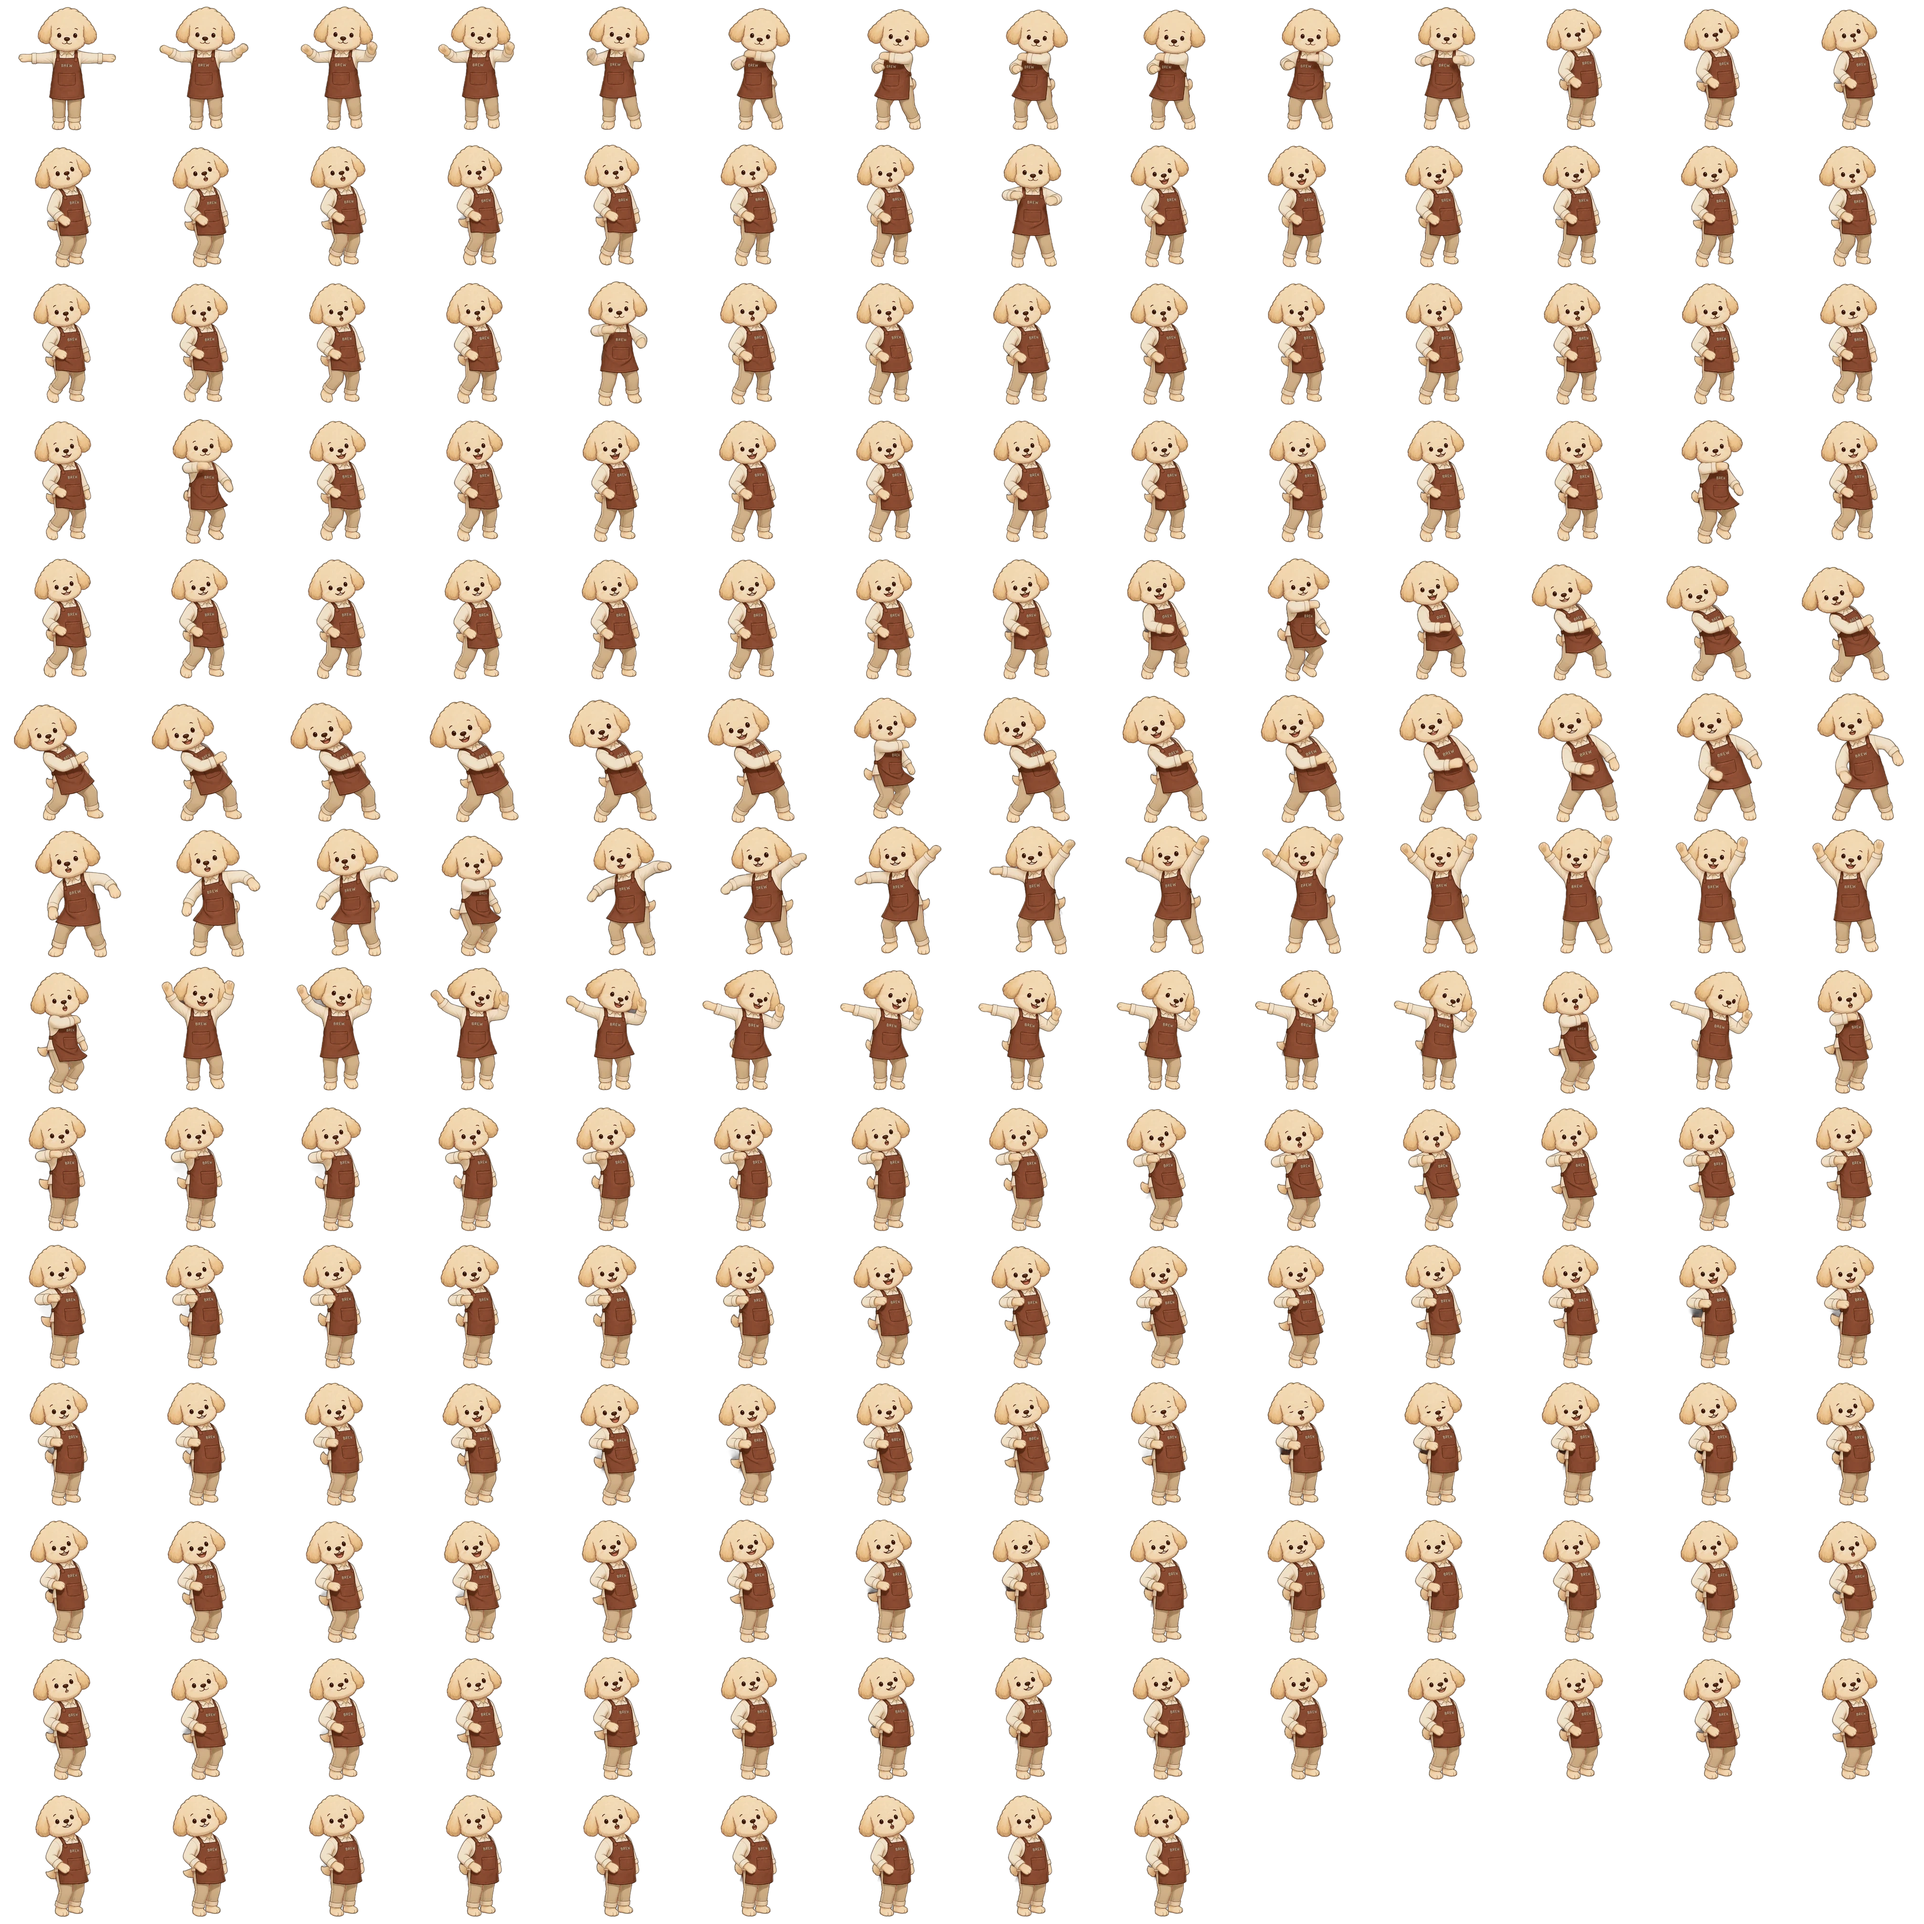
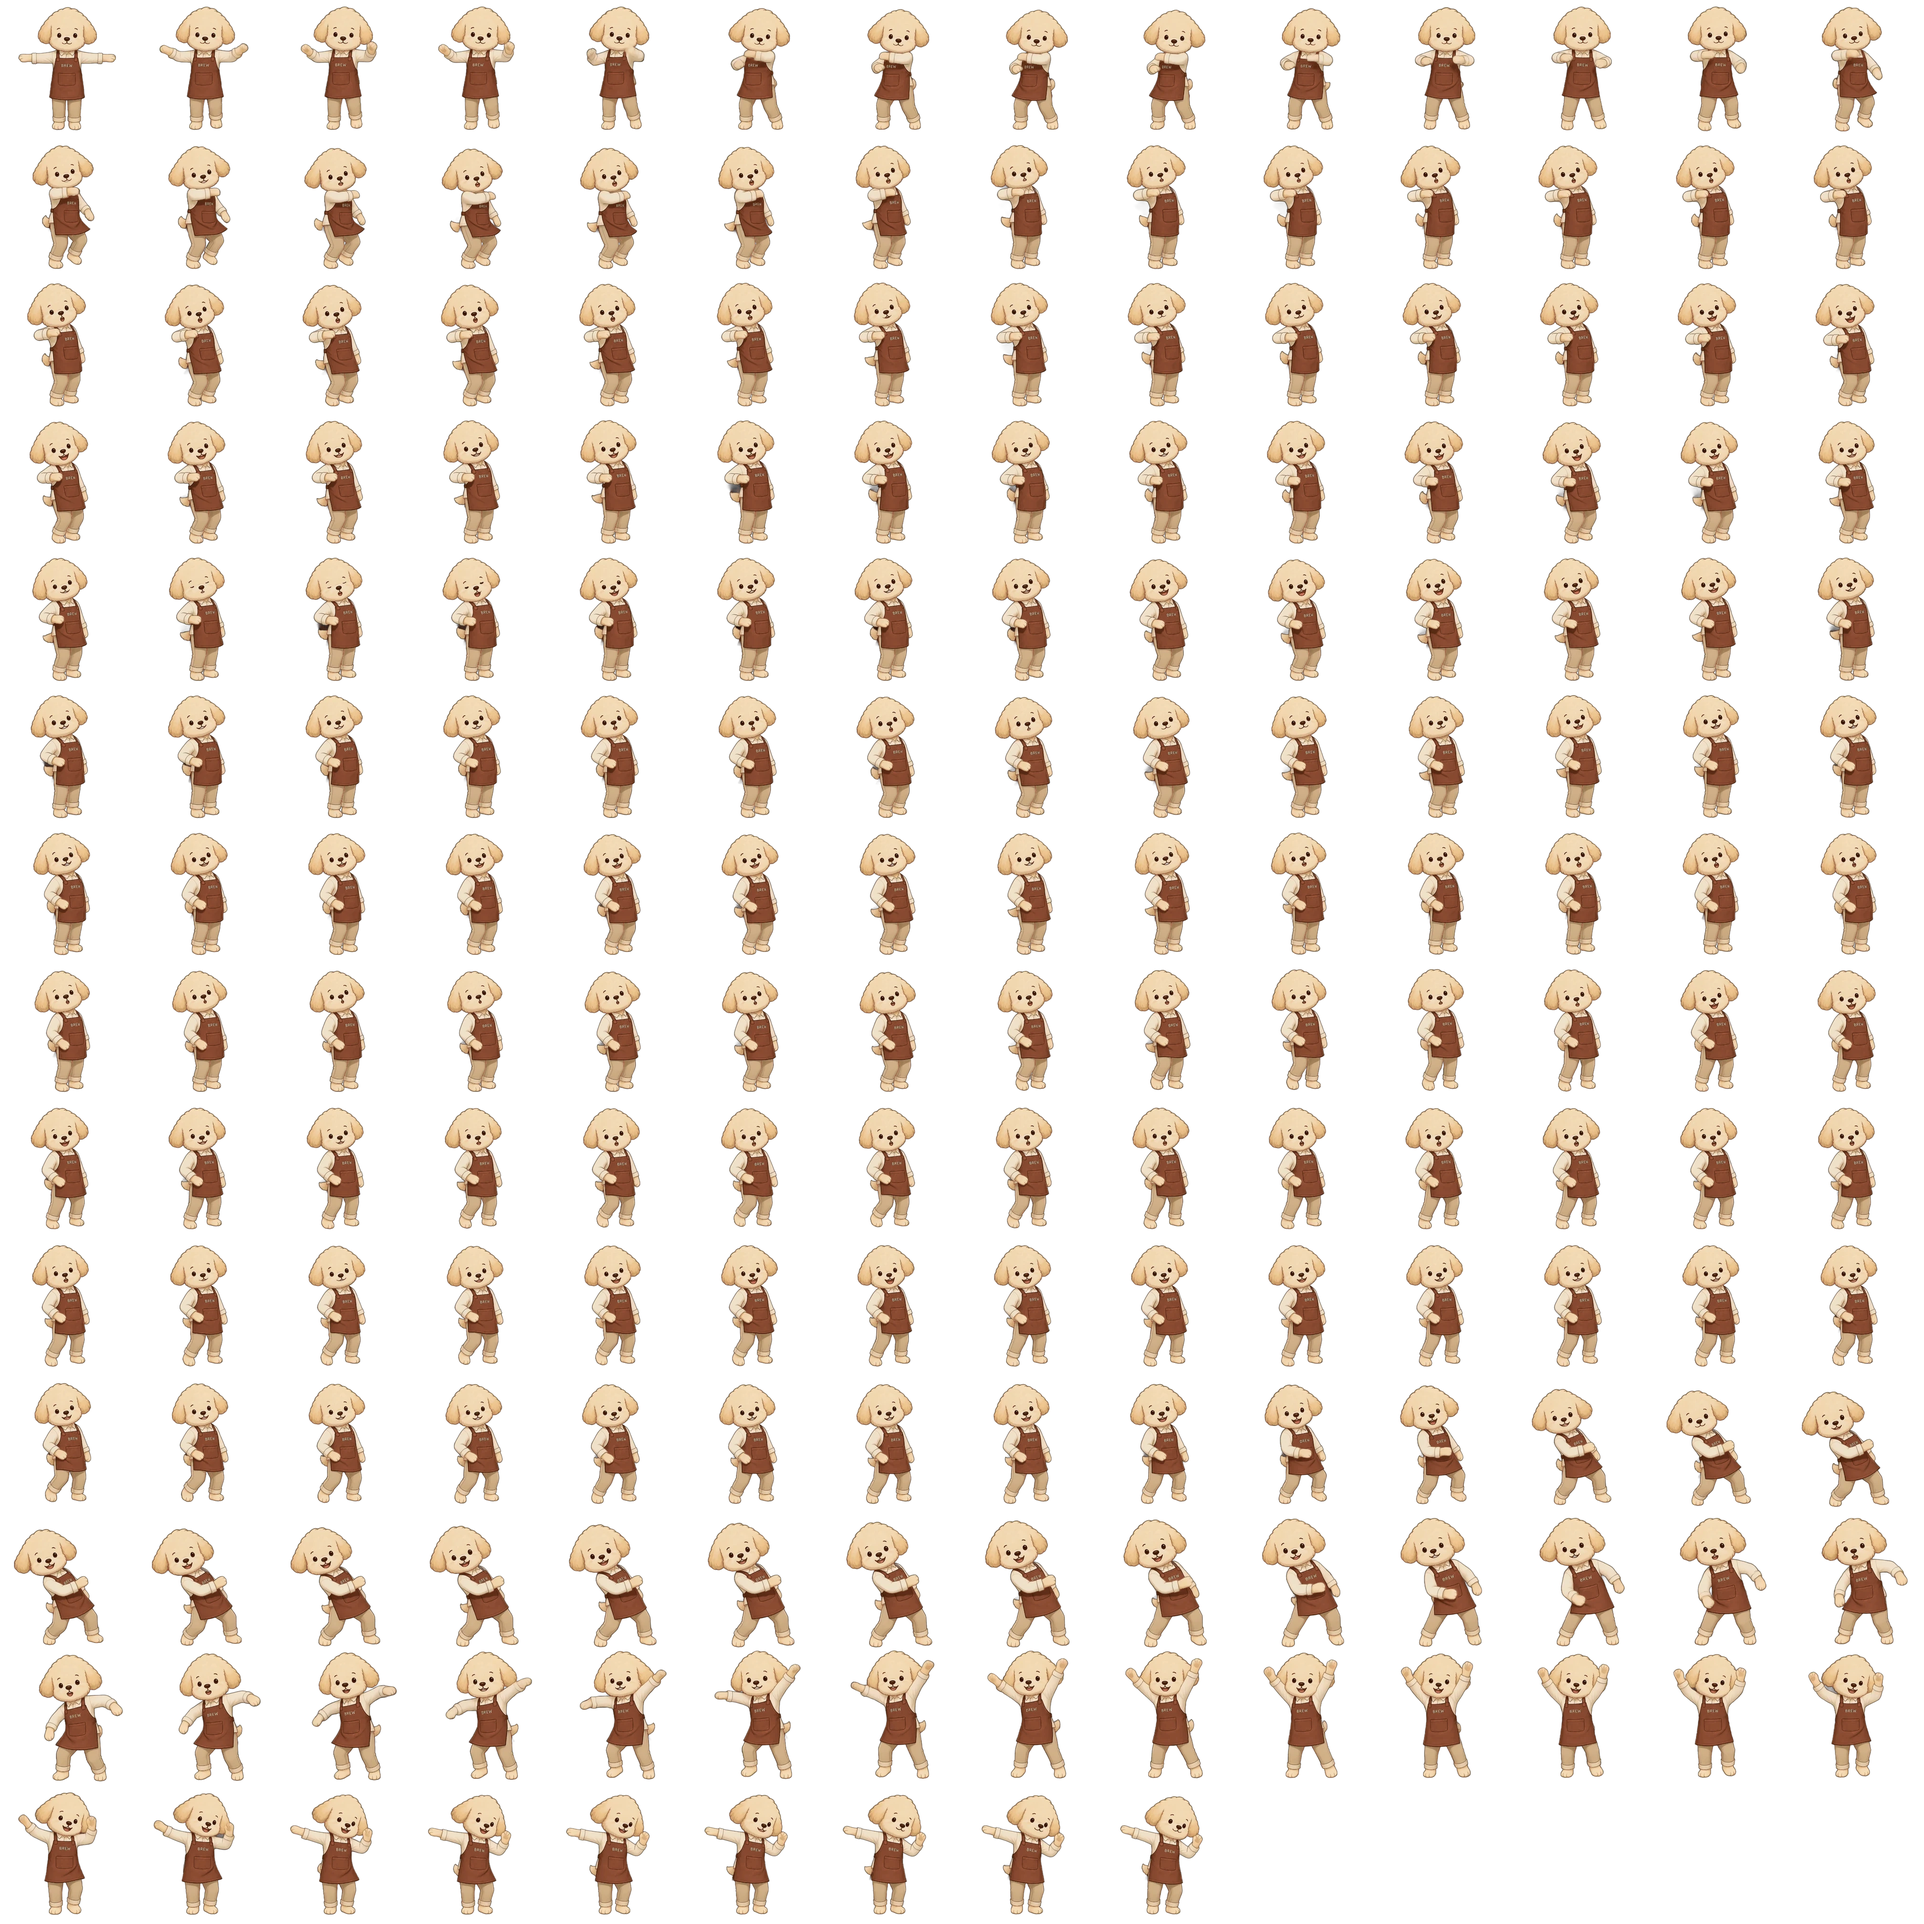
fix(마스코트): 100장 넘는 세트의 프레임 순서가 뒤섞이던 버그 — 숫자 정렬로 교정
프레임 파일이 f00,f01… 2자리라 100장을 넘으면 f100이 되는데, 문자열 정렬은
f10 바로 뒤에 f100을 끼워 넣는다(f10,f100,…,f109,f11,f110…). 그래서 어제
프레임을 2배로 늘리며 100장을 넘긴 heart(115)·bad(191)·redred(192)의
스프라이트 시트가 뒤죽박죽 순서로 구워져 재생이 튀었다.

pack·index·loop의 프레임 나열을 번호 기준(_frames_in_order)으로 바꾸고 시트
63장을 다시 구웠다. 프레임 파일 자체는 순서가 맞아 색 변형 재굽기는 불필요.
검증: 모든 시트의 i번째 칸 == f{i}.webp (불일치 0), 프레임간 변화 최대치
redred 0.132→0.065 / bad 0.164→0.052. 테스트 94개 통과.

diff --git a/scripts/bake_mascot.py b/scripts/bake_mascot.py
@@ -53,6 +53,16 @@ def _load(path: Path) -> np.ndarray:
     return np.array(Image.open(path).convert("RGBA")).astype(float)
 
 
+def _frames_in_order(d: Path, suffix: str = ".webp") -> list[Path]:
+    """f0, f1, … 를 '번호 순'으로 돌려준다.
+
+    문자열 정렬을 쓰면 안 된다 — 프레임이 100장을 넘으면 f100이 f10 바로 뒤로 끼어들어
+    (f10, f100, f101, …, f11) 시트가 뒤죽박죽 순서로 구워진다. 실제로 heart·bad·redred가
+    이렇게 구워져 재생이 끊겨 보였다(2026-08-11).
+    """
+    return sorted(d.glob(f"f*{suffix}"), key=lambda p: int(p.stem[1:]))
+
+
 def apron_mask(rgba: np.ndarray) -> np.ndarray:
     """앞치마일 확률(0~1). 경계에서 급격히 끊기지 않도록 페더링한다."""
     rgb = rgba[..., :3] / 255.0
@@ -172,7 +182,7 @@ def pack(args) -> int:
     개수와 요청 수, 그리고 크로스페이드용 두 번째 인스턴스가 같은 텍스처를 재사용한다는 점.
     """
     src = Path(args.src)
-    frames = sorted(src.glob("f*.webp"))
+    frames = _frames_in_order(src)
     if not frames:
         sys.exit(f"프레임이 없다: {src}")
     imgs = [Image.open(f).convert("RGBA") for f in frames]
@@ -282,7 +292,7 @@ def loop(args) -> int:
     그래서 이음새 오차를 사이클 내부 움직임량으로 나눈 비율로 채점한다: 많이 움직였는데도
     처음과 끝이 닮은 구간이 진짜 루프다. 길이 벌점은 기본 주기(1사이클)를 고르게 한다."""
     src = Path(args.src)
-    paths = sorted(src.glob("f*.png")) or sorted(src.glob("*.png"))
+    paths = _frames_in_order(src, ".png") or sorted(src.glob("*.png"))
     if len(paths) < args.min_len + 1:
         sys.exit(f"프레임이 부족하다: {len(paths)}장 (최소 {args.min_len + 1})")
     thumbs = np.stack([_thumb(p) for p in paths])
@@ -379,7 +389,7 @@ def index(args) -> int:
     for d in sorted(ANIM.iterdir()):
         if not d.is_dir():
             continue
-        frames = sorted(f.name for f in d.glob("f*.webp"))
+        frames = [f.name for f in _frames_in_order(d)]
         if frames:
             sets[d.name] = frames
     # 영상 파이프라인 세트는 원본 속도 메타(loop가 남긴 meta.json)를 함께 싣는다 —
